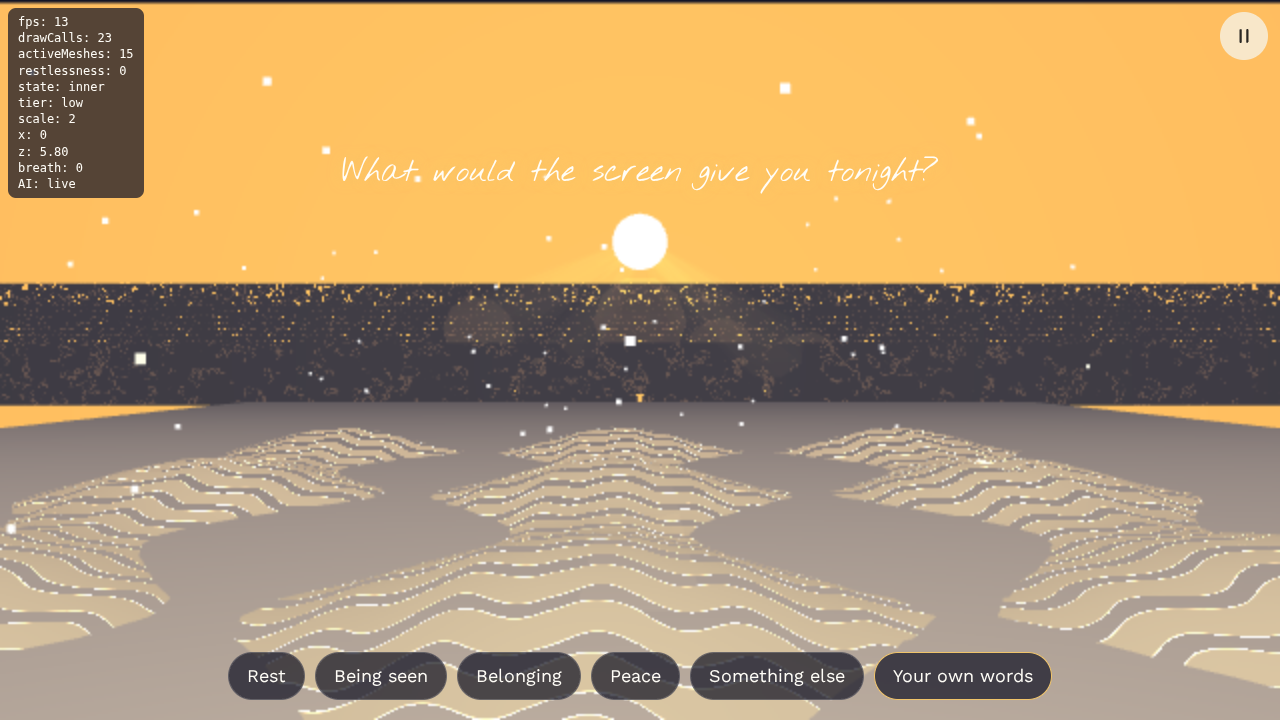
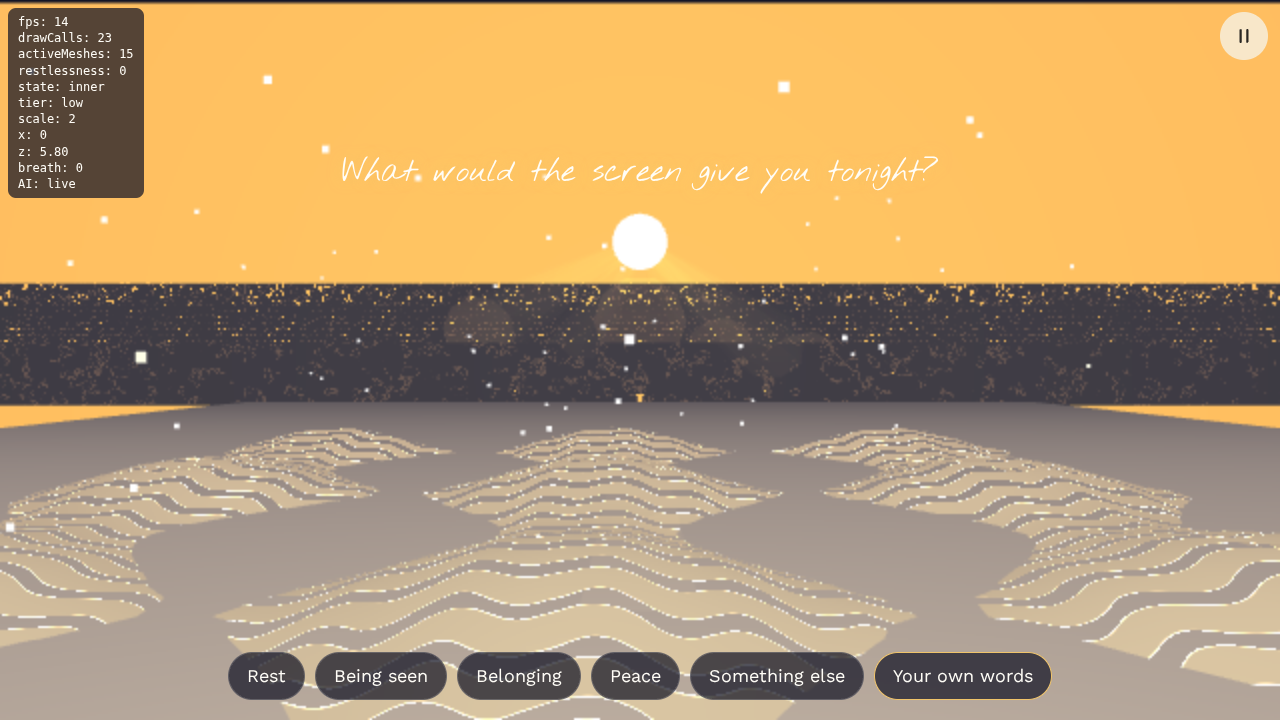
M8: echo of the player's words, sound design
Claude-Session: https://claude.ai/code/session_0182pGGL72VS1QKVP5Tc2fnZ

diff --git a/REPORT.md b/REPORT.md
@@ -137,3 +137,16 @@
 - Echter Test mit dem Schlüssel `OPENROUTER_API_KEY` auf Vercel (hier nicht vorhanden – kein Blocker, das Spiel läuft offline).
 
 **Neue Entscheidungen**: D32–D34.
+
+## M8 — Echo und Klang
+**Was gemacht wurde**
+- Echo: Bruchstücke (3–6 Wörter) aus den eigenen Worten werden lokal gespeichert (max. 20). Geht man an einer noch nicht verbundenen Störung vorbei (6 m), schwebt ein Bruchstück als Handschrift darüber: "i never… have enough". Höchstens alle 20 s. Vorher nichts.
+- Klang (alles im Code erzeugt): Stadt-Murmeln, Wind, seltenes Holzklicken; eigener Loop pro Störung (räumlich, nach Verbindung −12 dB, langsamer, gedämpft); Herzschlag; Atem-Rauschen; innere Klangflächen; Glocken bei Seele, Herz, jedem Verwandlungs-Schritt, Samen; Tor-Klang.
+
+**Funktioniert es**
+- Browser-Test `M8 echo` auf Desktop und Handy grün (Worte bei Störung 1 → Bruchstück bei Störung 2).
+
+**Was offen ist**
+- Klang nur im Test-Browser geprüft (ohne Lautsprecher). Bitte am Handy anhören.
+
+**Neue Entscheidungen**: keine.
